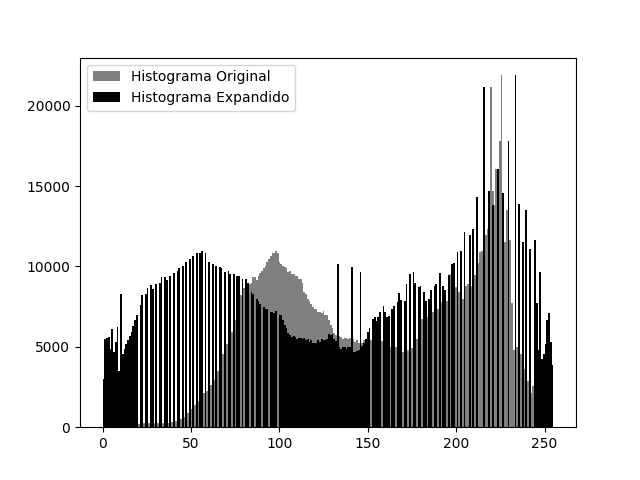
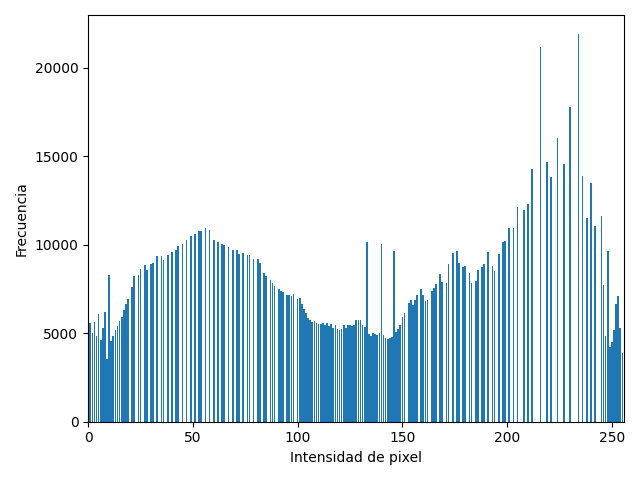
changes visual

diff --git a/main.py b/main.py
@@ -1,11 +1,9 @@
 import tkinter as tk
 from tkinter import filedialog
-from PIL import ImageTk
-import histograma
-import image_processing
-
+from PIL import ImageTk, Image
+import cv2
+import numpy as np
 import matplotlib.pyplot as plt
-from matplotlib.backends.backend_tkagg import FigureCanvasTkAgg
 
 class VentanaPrincipal(tk.Frame):
     def __init__(self, master=None):
@@ -30,52 +28,32 @@ class VentanaPrincipal(tk.Frame):
     def cargar_imagen(self):
         ruta_imagen = filedialog.askopenfilename(filetypes=[("Imagenes", "*.png;*.jpg;*.jpeg;*.bmp")])
         if ruta_imagen:
-            self.imagen_original = image_processing.procesar_imagen(ruta_imagen)
-            imagen_redimensionada = self.imagen_original.resize((500, 500))  # Cambia las dimensiones a lo que necesites
-            self.imagen_tk = ImageTk.PhotoImage(imagen_redimensionada)
+            self.imagen_original = cv2.imread(ruta_imagen, cv2.IMREAD_GRAYSCALE)
+            self.imagen_tk = ImageTk.PhotoImage(Image.fromarray(self.imagen_original).resize((400, 400)))
             self.imagen_label.config(image=self.imagen_tk)
-            self.histograma_original = histograma.obtener_histograma(imagen_redimensionada)
+            self.histograma_original = cv2.calcHist([self.imagen_original], [0], None, [256], [0,256])
             self.graficar_histograma(self.histograma_original)
 
     def expandir_histograma(self):
-        imagen_expandida = image_processing.expandir_histograma(self.imagen_original)
-        histograma_expandido = histograma.obtener_histograma(imagen_expandida)
-        self.imagen_expandida_tk = ImageTk.PhotoImage(imagen_expandida)
-
-        # Crear figura con dos subplots
-        fig, (ax1, ax2) = plt.subplots(1, 2, figsize=(10, 5))
-
-        # Mostrar imagen original en el primer subplot
-        ax1.imshow(self.imagen_original, cmap="gray")
-        ax1.set_title("Imagen original")
-
-        # Mostrar imagen expandida en el segundo subplot
-        ax2.imshow(imagen_expandida, cmap="gray")
-        ax2.set_title("Imagen expandida")
-
-        # Mostrar histograma expandido debajo del segundo subplot
-        canvas = FigureCanvasTkAgg(fig, master=self)
-        canvas.get_tk_widget().pack()
-        ax3 = fig.add_subplot(3, 1, 3)
-        ax3.bar(range(len(histograma_expandido)), histograma_expandido)
-        ax3.set_title("Histograma expandido")
-
-        canvas.draw()
+        imagen_expandida = cv2.equalizeHist(self.imagen_original)
+        histograma_expandido = cv2.calcHist([imagen_expandida], [0], None, [256], [0,256])
+        imagen_expandida_tk = ImageTk.PhotoImage(Image.fromarray(imagen_expandida).resize((400, 400)))
+        self.imagen_label.config(image=imagen_expandida_tk)
+        self.graficar_histograma(histograma_expandido)
 
     def graficar_histograma(self, histograma):
-        canvas = tk.Canvas(self.histograma_label, width=400, height=200)
-        canvas.pack()
-        for i, valor in enumerate(histograma):
-            x0 = i * 4
-            y0 = 200 - (valor * 200 / max(histograma))
-            x1 = (i + 1) * 4
-            y1 = 200
-            canvas.create_rectangle(x0, y0, x1, y1, fill="gray")
-        canvas.update()
-
+        plt.clf()
+        plt.bar(range(256), histograma.ravel())
+        plt.xlim([0, 256])
+        plt.xlabel("Intensidad de pixel")
+        plt.ylabel("Frecuencia")
+        plt.tight_layout()
+        plt.savefig("histograma.png")
+        histograma_tk = ImageTk.PhotoImage(Image.open("histograma.png").resize((400, 200)))
+        self.histograma_label.config(image=histograma_tk)
+        self.histograma_label.image = histograma_tk
 
 root = tk.Tk()
-root.geometry("700x800")
+root.geometry("900x500")
 app = VentanaPrincipal(master=root)
 app.mainloop()
-
